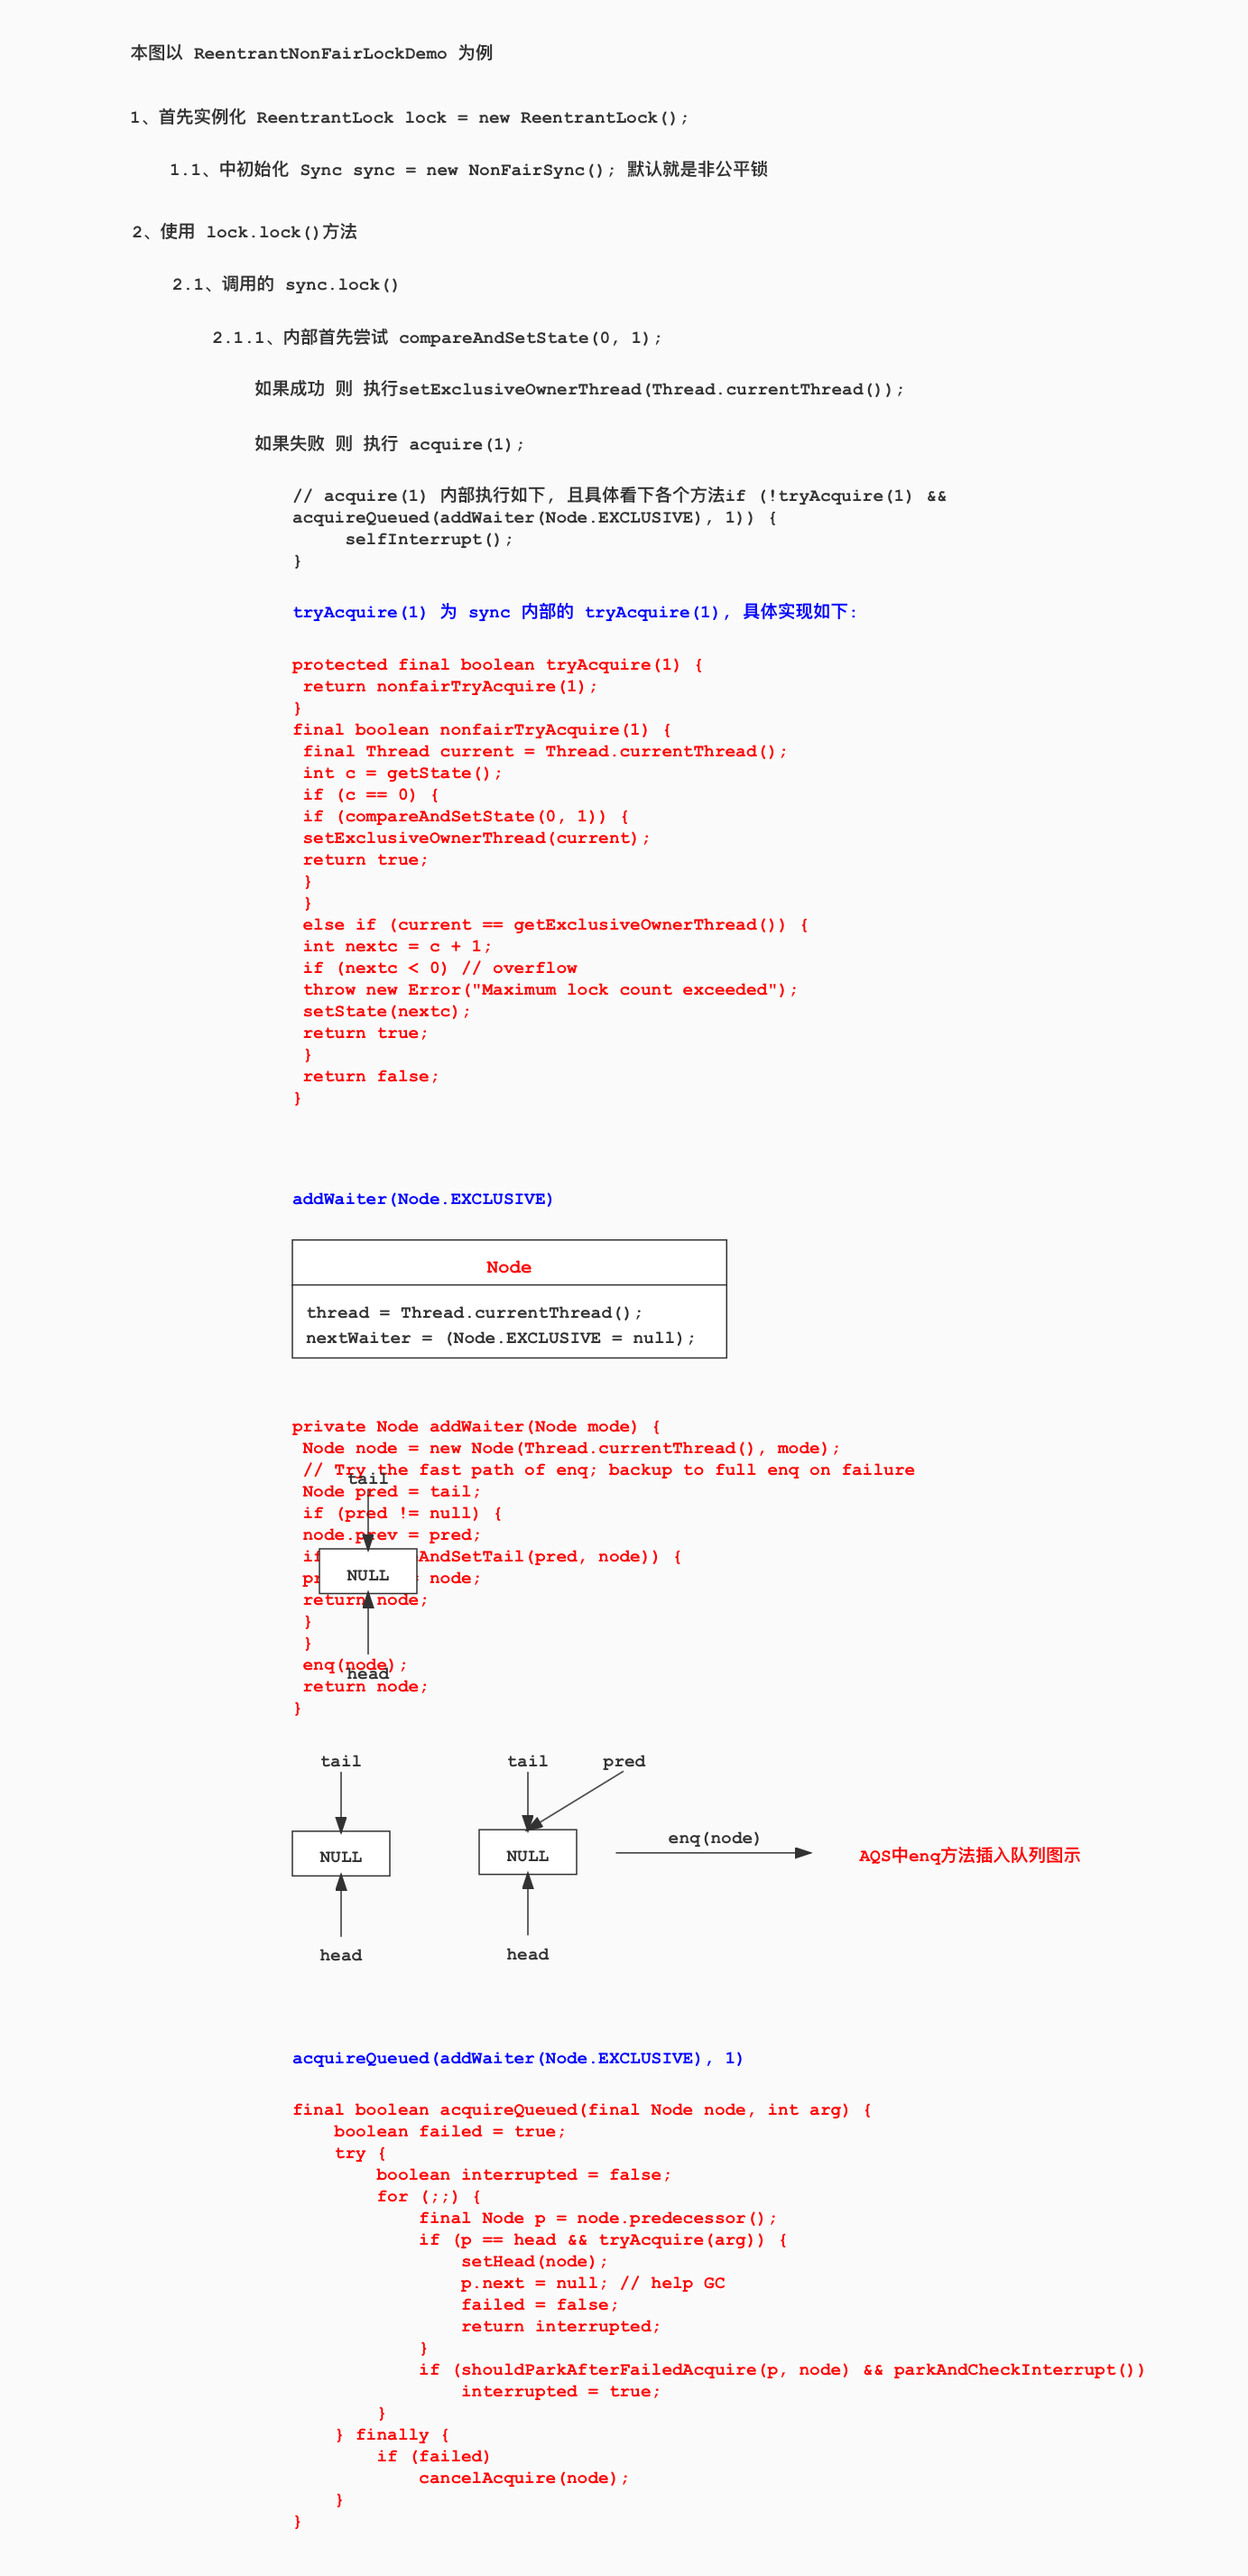
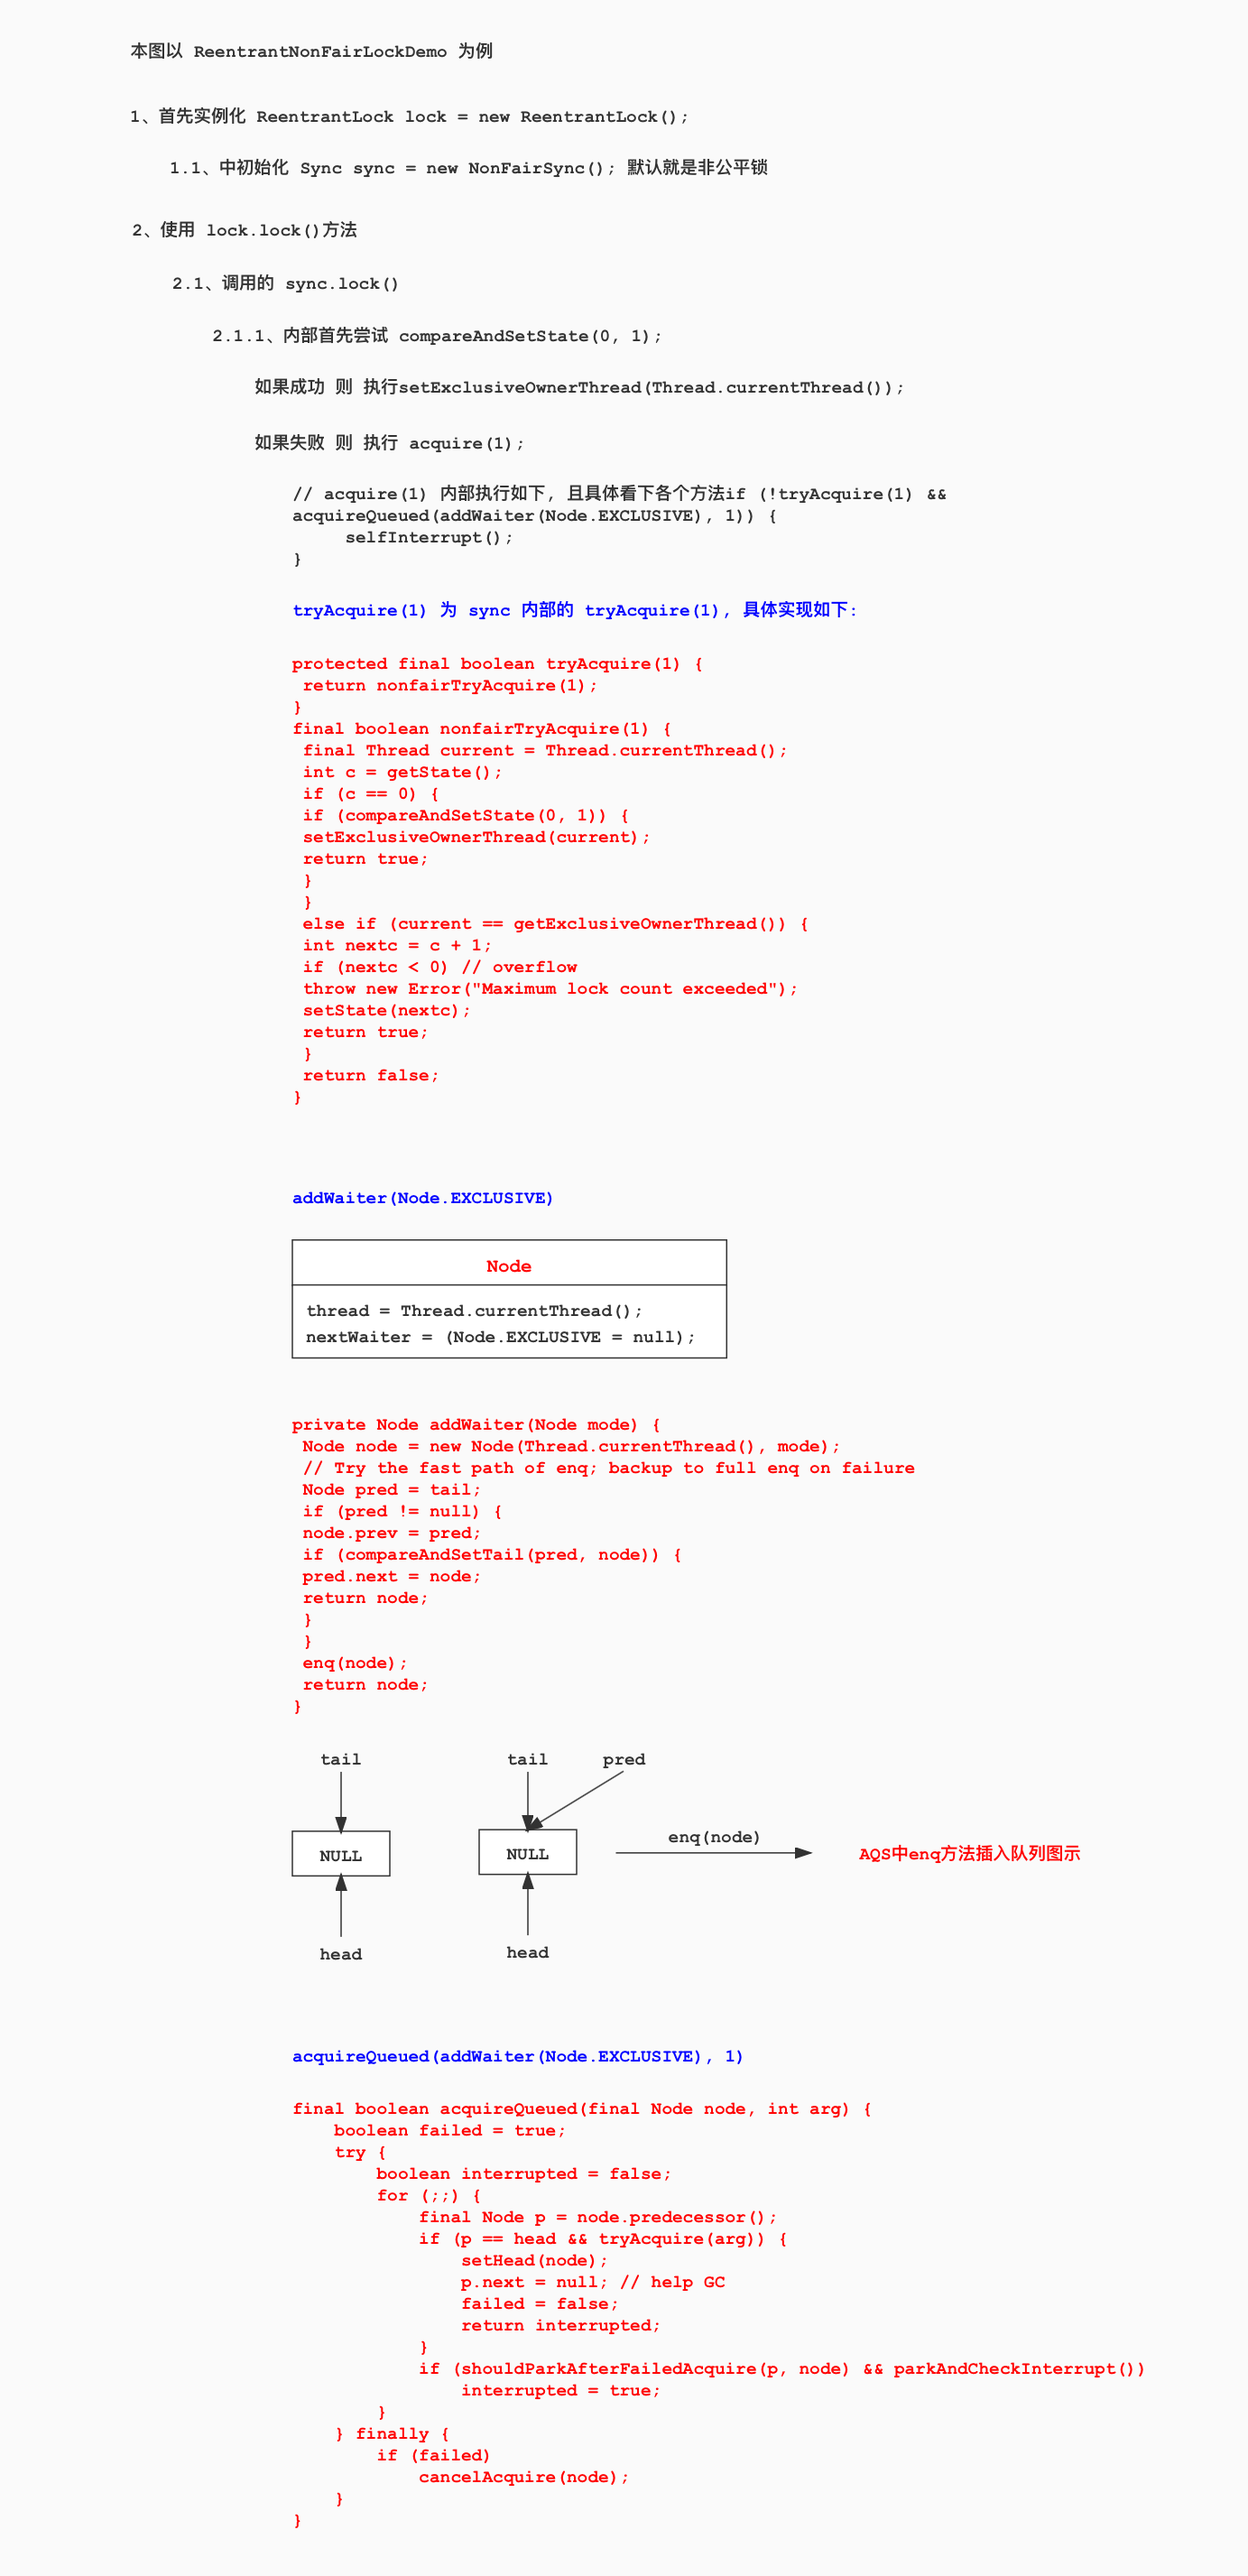
重新上传非公平锁图示

diff --git a/src/main/java/com/deepblue/inaction_100_test/CyclicBarrierExampleTest02.java b/src/main/java/com/deepblue/inaction_100_test/CyclicBarrierExampleTest02.java
@@ -1,0 +1,60 @@
+package com.deepblue.inaction_100_test;
+
+import java.util.concurrent.BrokenBarrierException;
+import java.util.concurrent.CyclicBarrier;
+
+/**
+ *
+ */
+public class CyclicBarrierExampleTest02 {
+
+    public static CyclicBarrier cyclicBarrier = new CyclicBarrier(2);
+
+    public static void main(String[] args) {
+
+        Thread threadA = new Thread(() -> {
+            System.out.println("threadA invoke ...");
+            try {
+                Thread.sleep(10000L);
+                cyclicBarrier.await();
+            } catch (InterruptedException e) {
+                e.printStackTrace();
+            } catch (BrokenBarrierException e) {
+                e.printStackTrace();
+            }
+        });
+
+        Thread threadB = new Thread(() -> {
+            System.out.println("threadB invoke ...");
+            try {
+                Thread.sleep(10000L);
+                cyclicBarrier.await();
+            } catch (InterruptedException e) {
+                e.printStackTrace();
+            } catch (BrokenBarrierException e) {
+                e.printStackTrace();
+            }
+        });
+
+        threadA.start();
+        threadB.start();
+
+        try {
+            threadA.join();
+            threadB.join();
+        } catch (InterruptedException e) {
+            e.printStackTrace();
+        }
+
+        System.out.println("the last processor invoke!");
+
+
+
+    }
+
+
+
+
+
+
+}

diff --git a/src/main/java/com/deepblue/inaction_100_test/CyclicBarrierExampleTest01.java b/src/main/java/com/deepblue/inaction_100_test/CyclicBarrierExampleTest01.java
@@ -1,0 +1,53 @@
+package com.deepblue.inaction_100_test;
+
+import java.util.concurrent.BrokenBarrierException;
+import java.util.concurrent.CyclicBarrier;
+
+/**
+ *
+ */
+public class CyclicBarrierExampleTest01 {
+
+    public static CyclicBarrier cyclicBarrier = new CyclicBarrier(2, new Runnable() {
+        @Override
+        public void run() {
+            System.out.println("the last processor invoke!");
+        }
+    });
+
+    public static void main(String[] args) {
+        Thread threadA = new Thread(() -> {
+            System.out.println("threadA invoke ...");
+            try {
+                Thread.sleep(10000L);
+                cyclicBarrier.await();
+            } catch (InterruptedException e) {
+                e.printStackTrace();
+            } catch (BrokenBarrierException e) {
+                e.printStackTrace();
+            }
+        });
+
+        Thread threadB = new Thread(() -> {
+            System.out.println("threadB invoke ...");
+            try {
+                Thread.sleep(10000L);
+                cyclicBarrier.await();
+            } catch (InterruptedException e) {
+                e.printStackTrace();
+            } catch (BrokenBarrierException e) {
+                e.printStackTrace();
+            }
+        });
+
+        threadA.start();
+        threadB.start();
+
+    }
+
+
+
+
+
+
+}

diff --git a/src/main/java/com/deepblue/inaction_100_test/CountDownLatchExampleTest01.java b/src/main/java/com/deepblue/inaction_100_test/CountDownLatchExampleTest01.java
@@ -1,0 +1,42 @@
+package com.deepblue.inaction_100_test;
+
+import java.util.concurrent.CountDownLatch;
+
+/**
+ *
+ */
+public class CountDownLatchExampleTest01 {
+
+    public static CountDownLatch countDownLatch = new CountDownLatch(1);
+
+    public static void main(String[] args) throws InterruptedException {
+
+        Thread threadA = new Thread(() -> {
+            try {
+                System.out.println("threadA invoke before ...");
+                countDownLatch.await();
+                System.out.println("threadA is running ...");
+            } catch (InterruptedException e) {
+                e.printStackTrace();
+            }
+        });
+
+        Thread threadB = new Thread(() -> {
+            try {
+                System.out.println("threadB invoke before ...");
+                countDownLatch.await();
+                System.out.println("threadB is running ...");
+            } catch (InterruptedException e) {
+                e.printStackTrace();
+            }
+        });
+
+        threadA.start();
+        threadB.start();
+
+        Thread.sleep(1000L);
+
+        countDownLatch.countDown();
+
+    }
+}
